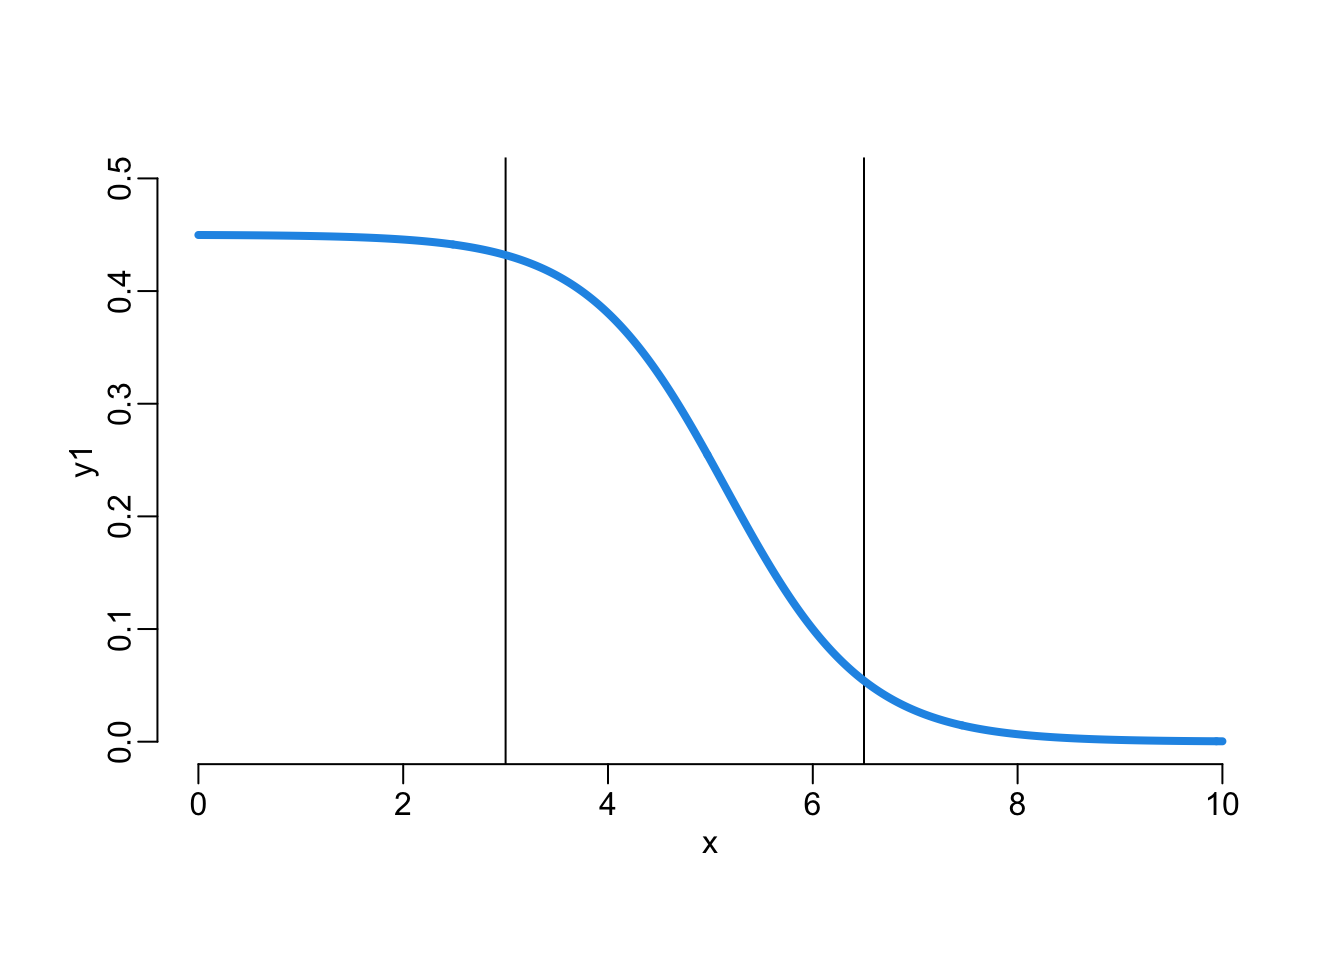
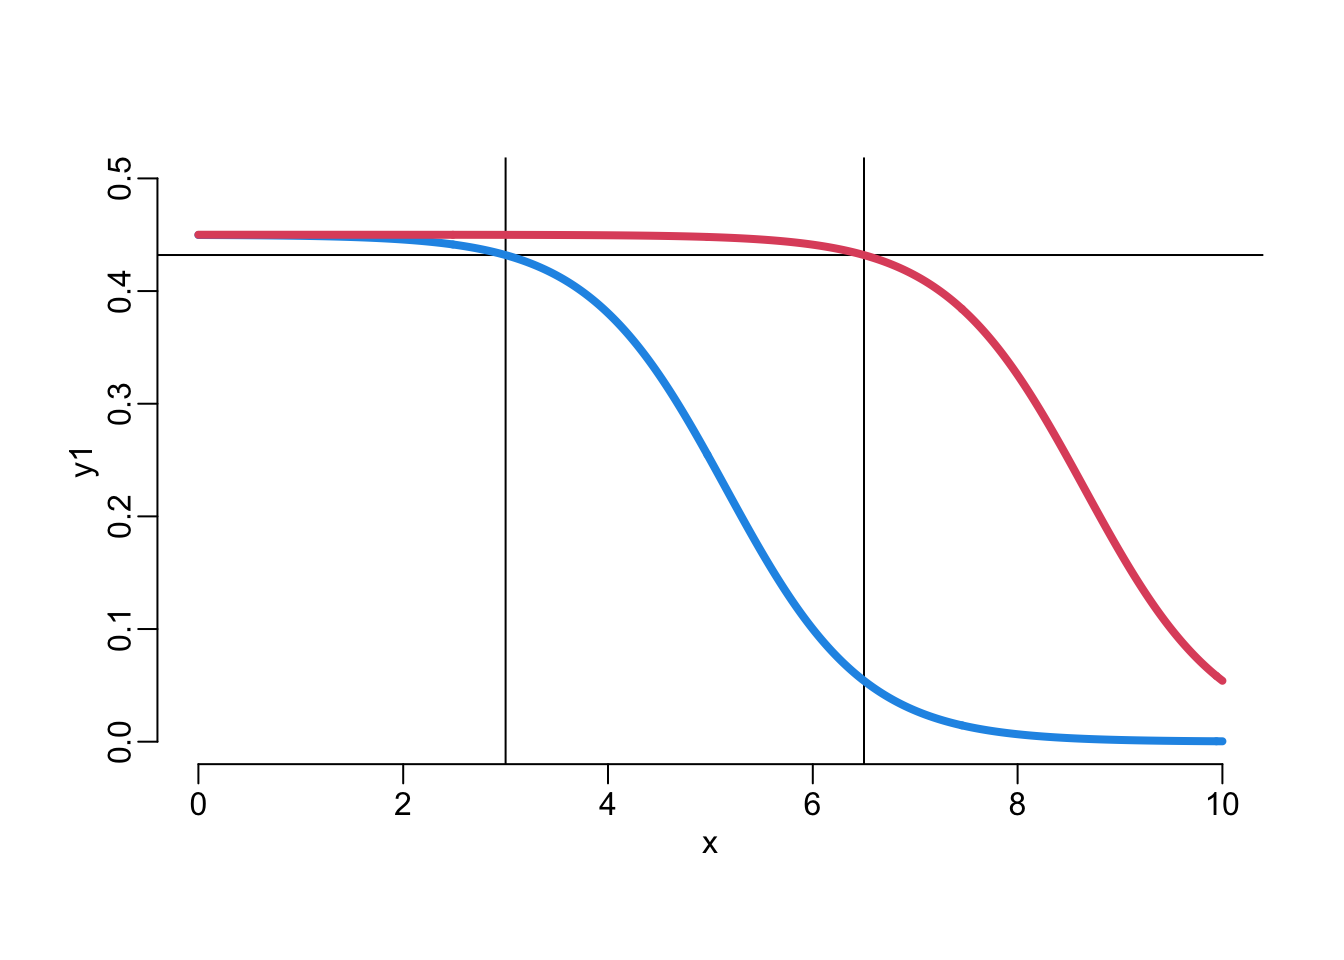
changing the clinical breakpoints curves

diff --git a/qAMR.html b/qAMR.html
@@ -267,7 +267,9 @@ window.Quarto = {
 <span id="cb22-8"><a href="#cb22-8" aria-hidden="true" tabindex="-1"></a>th2 <span class="ot">&lt;-</span> <span class="fl">6.5</span></span>
 <span id="cb22-9"><a href="#cb22-9" aria-hidden="true" tabindex="-1"></a><span class="fu">abline</span>(<span class="at">v =</span> th1)</span>
 <span id="cb22-10"><a href="#cb22-10" aria-hidden="true" tabindex="-1"></a><span class="fu">abline</span>(<span class="at">v =</span> th2)</span>
-<span id="cb22-11"><a href="#cb22-11" aria-hidden="true" tabindex="-1"></a><span class="fu">lines2</span>(x, <span class="fu">p</span>(x <span class="sc">-</span> <span class="dv">5</span>, .<span class="dv">45</span>, .<span class="dv">25</span>, .<span class="dv">1</span>), <span class="at">col =</span> <span class="dv">4</span>)</span></code><button title="Copy to Clipboard" class="code-copy-button"><i class="bi"></i></button></pre></div>
+<span id="cb22-11"><a href="#cb22-11" aria-hidden="true" tabindex="-1"></a><span class="fu">abline</span>(<span class="at">h =</span> .<span class="dv">432</span>)</span>
+<span id="cb22-12"><a href="#cb22-12" aria-hidden="true" tabindex="-1"></a><span class="fu">lines2</span>(x, <span class="fu">p</span>(x <span class="sc">-</span> <span class="dv">5</span>, .<span class="dv">45</span>, .<span class="dv">25</span>, .<span class="dv">1</span>), <span class="at">col =</span> <span class="dv">4</span>)</span>
+<span id="cb22-13"><a href="#cb22-13" aria-hidden="true" tabindex="-1"></a><span class="fu">lines2</span>(x, <span class="fu">p</span>(x <span class="sc">-</span> <span class="fl">8.5</span>, .<span class="dv">45</span>, .<span class="dv">25</span>, .<span class="dv">1</span>))</span></code><button title="Copy to Clipboard" class="code-copy-button"><i class="bi"></i></button></pre></div>
 <div class="cell-output-display">
 <div class="quarto-figure quarto-figure-center">
 <figure class="figure">
